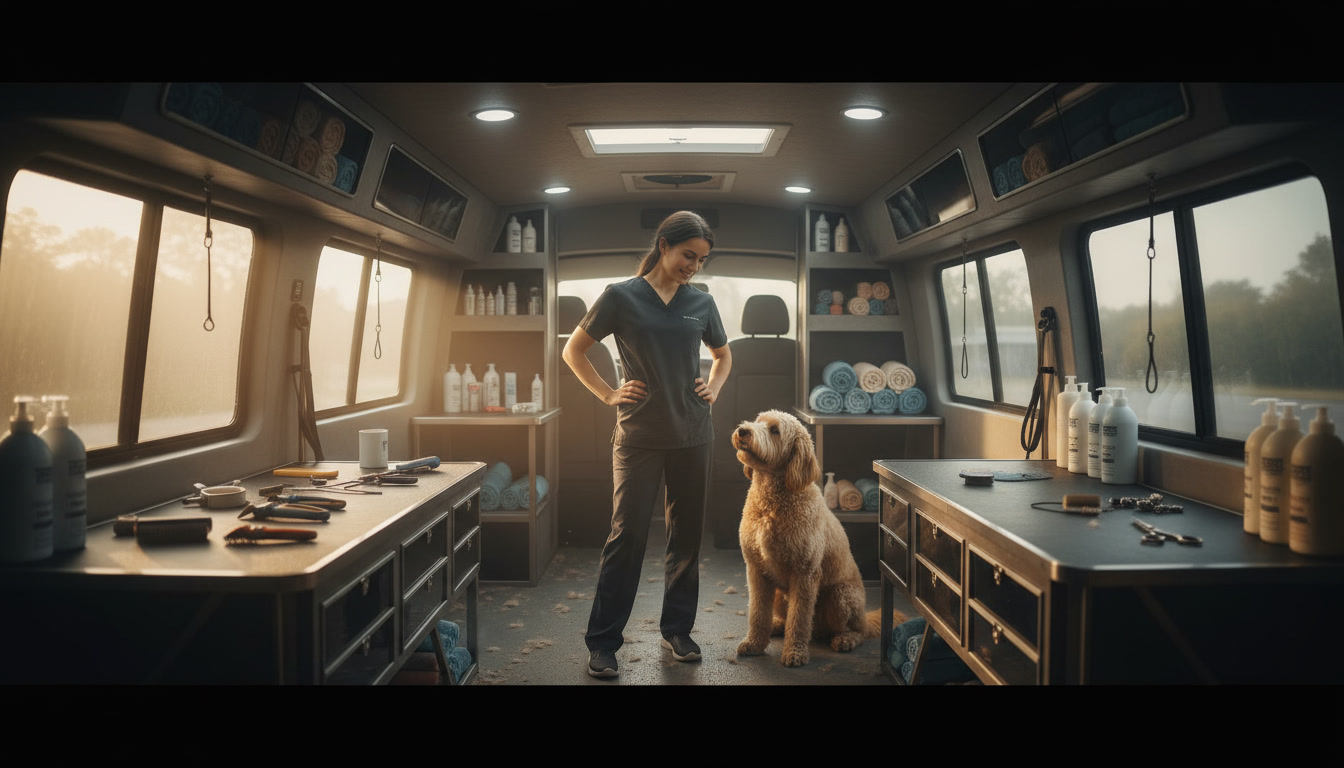
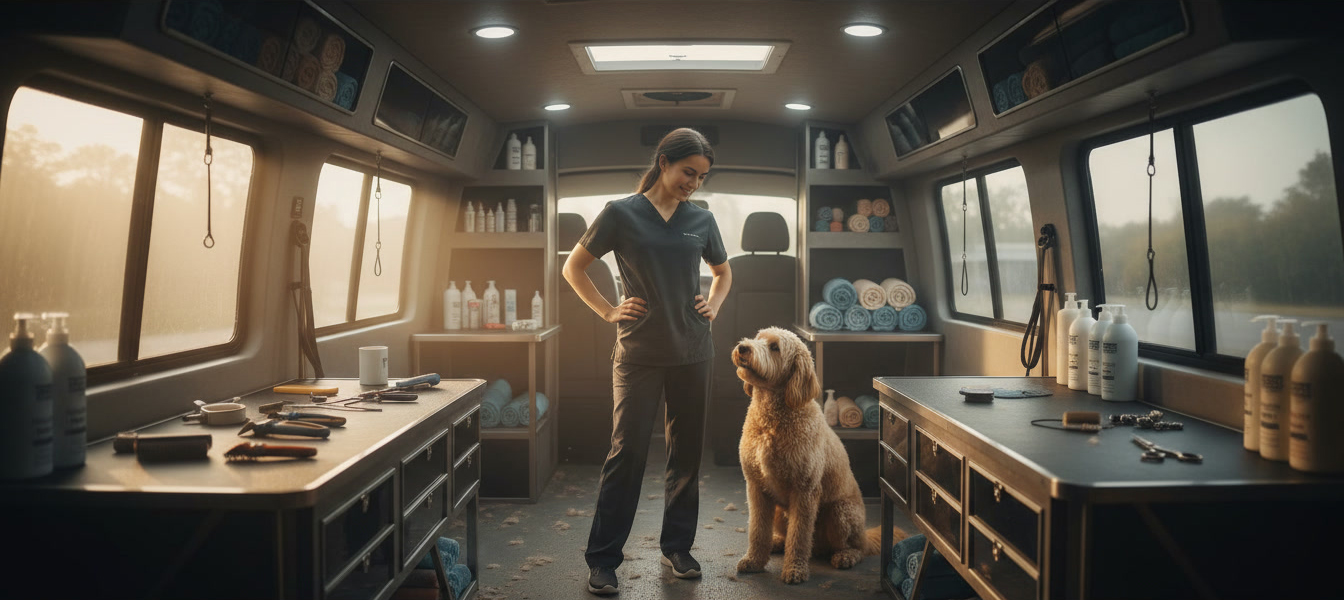
Update final CTA layout and calmcontrol image
- Move final-cta.jpg inside card above headline
- Use DaisyUI figure element for proper card image display
- Update calmcontrol.jpg with new version
- Maintain 16:9 aspect ratio for final CTA image

🤖 Generated with Claude Code (https://claude.com/claude-code)

diff --git a/app/page.tsx b/app/page.tsx
@@ -975,35 +975,32 @@ export default function Home() {
       {/* FINAL CTA WITH IMAGE */}
       <section className="py-8 lg:py-20 px-6 bg-base-100">
         <div className="max-w-6xl mx-auto">
-          <div className="space-y-8">
-            {/* Hero Image - 16:9 ratio, full width */}
-            <div className="flex justify-center">
-              <Image
-                src="/images/final-cta.jpg"
-                alt="Happy mobile groomer with Golden Retriever outside grooming van - your future with GroomRoute"
-                width={1200}
-                height={675}
-                className="rounded-xl w-full shadow-2xl"
-              />
-            </div>
+          <div className="flex justify-center">
+            <div className="card bg-gradient-to-br from-primary/20 to-secondary/20 shadow-2xl max-w-2xl w-full overflow-hidden">
+              {/* Hero Image - inside card, above content */}
+              <figure>
+                <Image
+                  src="/images/final-cta.jpg"
+                  alt="Happy mobile groomer with Golden Retriever outside grooming van - your future with GroomRoute"
+                  width={1200}
+                  height={675}
+                  className="w-full"
+                />
+              </figure>
 
-            {/* CTA Card - centered below image */}
-            <div className="flex justify-center">
-              <div className="card bg-gradient-to-br from-primary/20 to-secondary/20 shadow-2xl max-w-2xl w-full">
-                <div className="card-body items-center text-center">
-                  <h2 className="card-title text-4xl mb-4">
-                    Ready for calmer, more profitable days?
-                  </h2>
-                  <p className="text-lg mb-6">
-                    One tap. Your whole day changes.
-                  </p>
-                  <div className="card-actions">
-                    <Link href="/auth/signup?plan=growth&billing=monthly" className="btn btn-gradient btn-lg">
-                      Start Free Trial
-                    </Link>
-                  </div>
-                  <p className="text-sm opacity-70 mt-4">14-day free trial. Cancel anytime. Card required.</p>
+              <div className="card-body items-center text-center">
+                <h2 className="card-title text-4xl mb-4">
+                  Ready for calmer, more profitable days?
+                </h2>
+                <p className="text-lg mb-6">
+                  One tap. Your whole day changes.
+                </p>
+                <div className="card-actions">
+                  <Link href="/auth/signup?plan=growth&billing=monthly" className="btn btn-gradient btn-lg">
+                    Start Free Trial
+                  </Link>
                 </div>
+                <p className="text-sm opacity-70 mt-4">14-day free trial. Cancel anytime. Card required.</p>
               </div>
             </div>
           </div>
